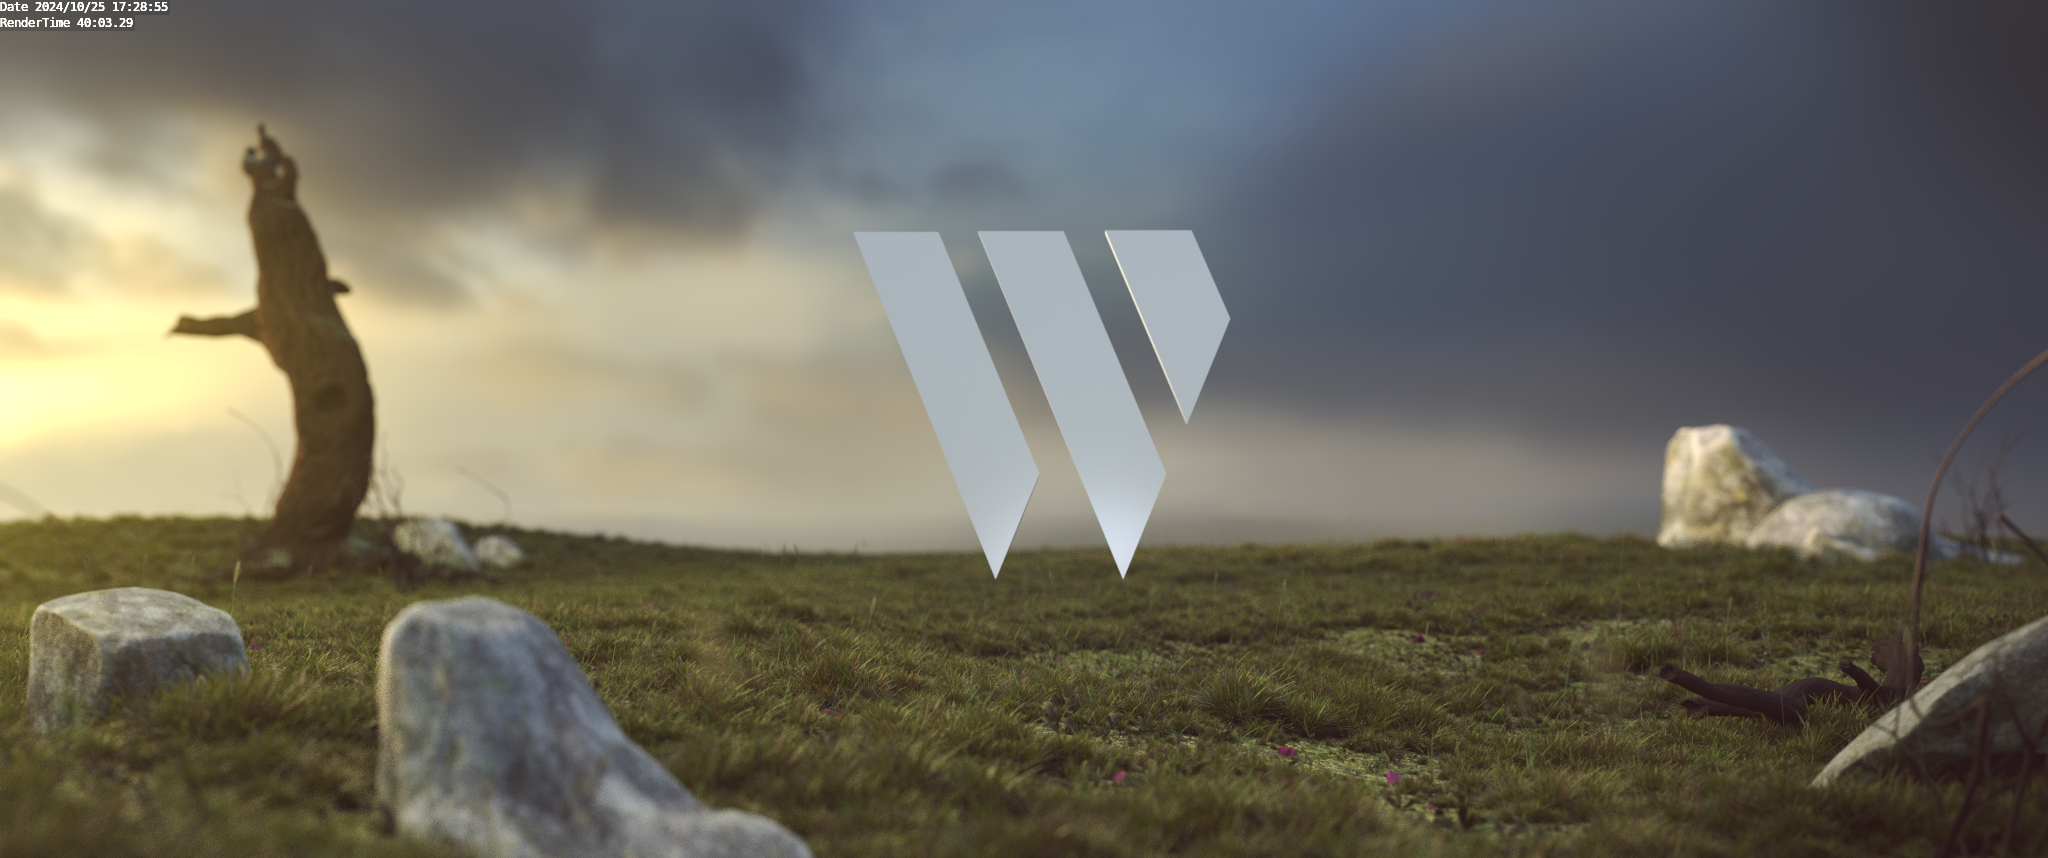
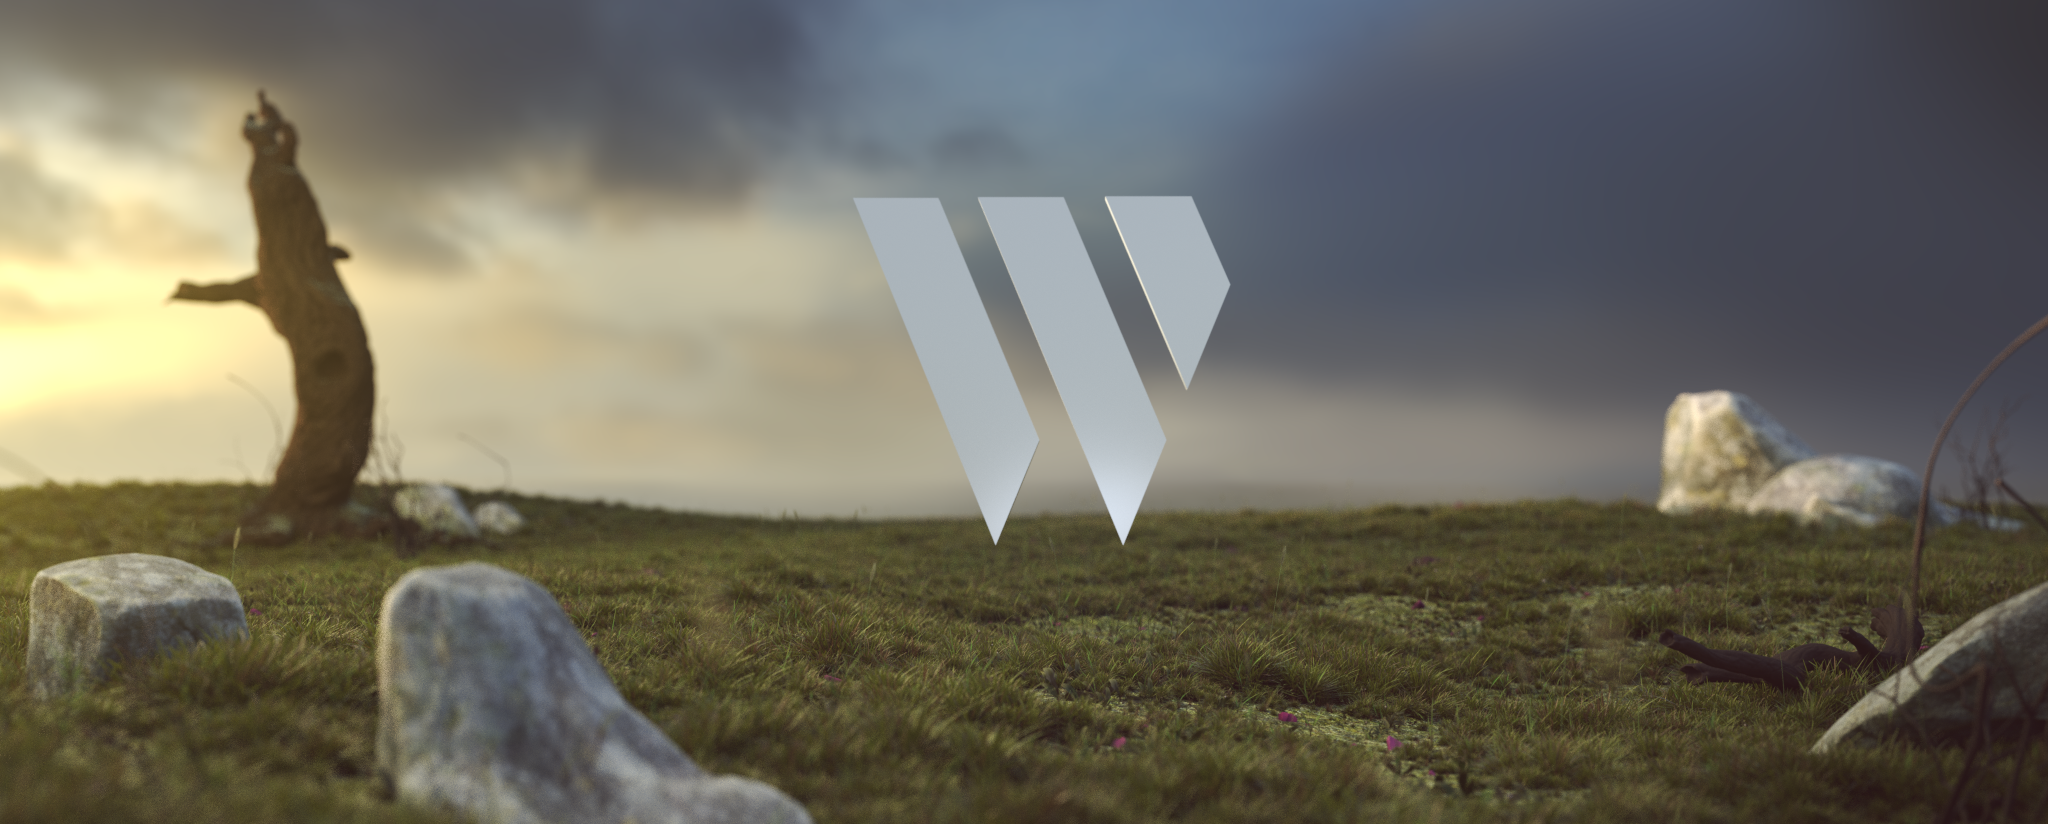
README

diff --git a/README.md b/README.md
@@ -32,7 +32,7 @@ Ich hatte Lust, einen Chatbot zu bauen, der alle Fragen zu Woyzeck beantwortet. 
 Fragen zum Deutschbuch? Woyzy hat die Antwort! (Oder zumindest eine sehr überzeugende Ausrede ;-)
 
 <div style="display: flex; justify-content: center; align-items: center; gap: 20px; flex-wrap: wrap;">
-  <img src="./static/images/woyzy-banner.png" alt="Apollo Logo" width="1400" style="margin: 10px;">
+  <img src="./static/images/woyzy-banner5.png" alt="Apollo Logo" width="1400" style="margin: 10px;">
 </div>
 
 ## News
